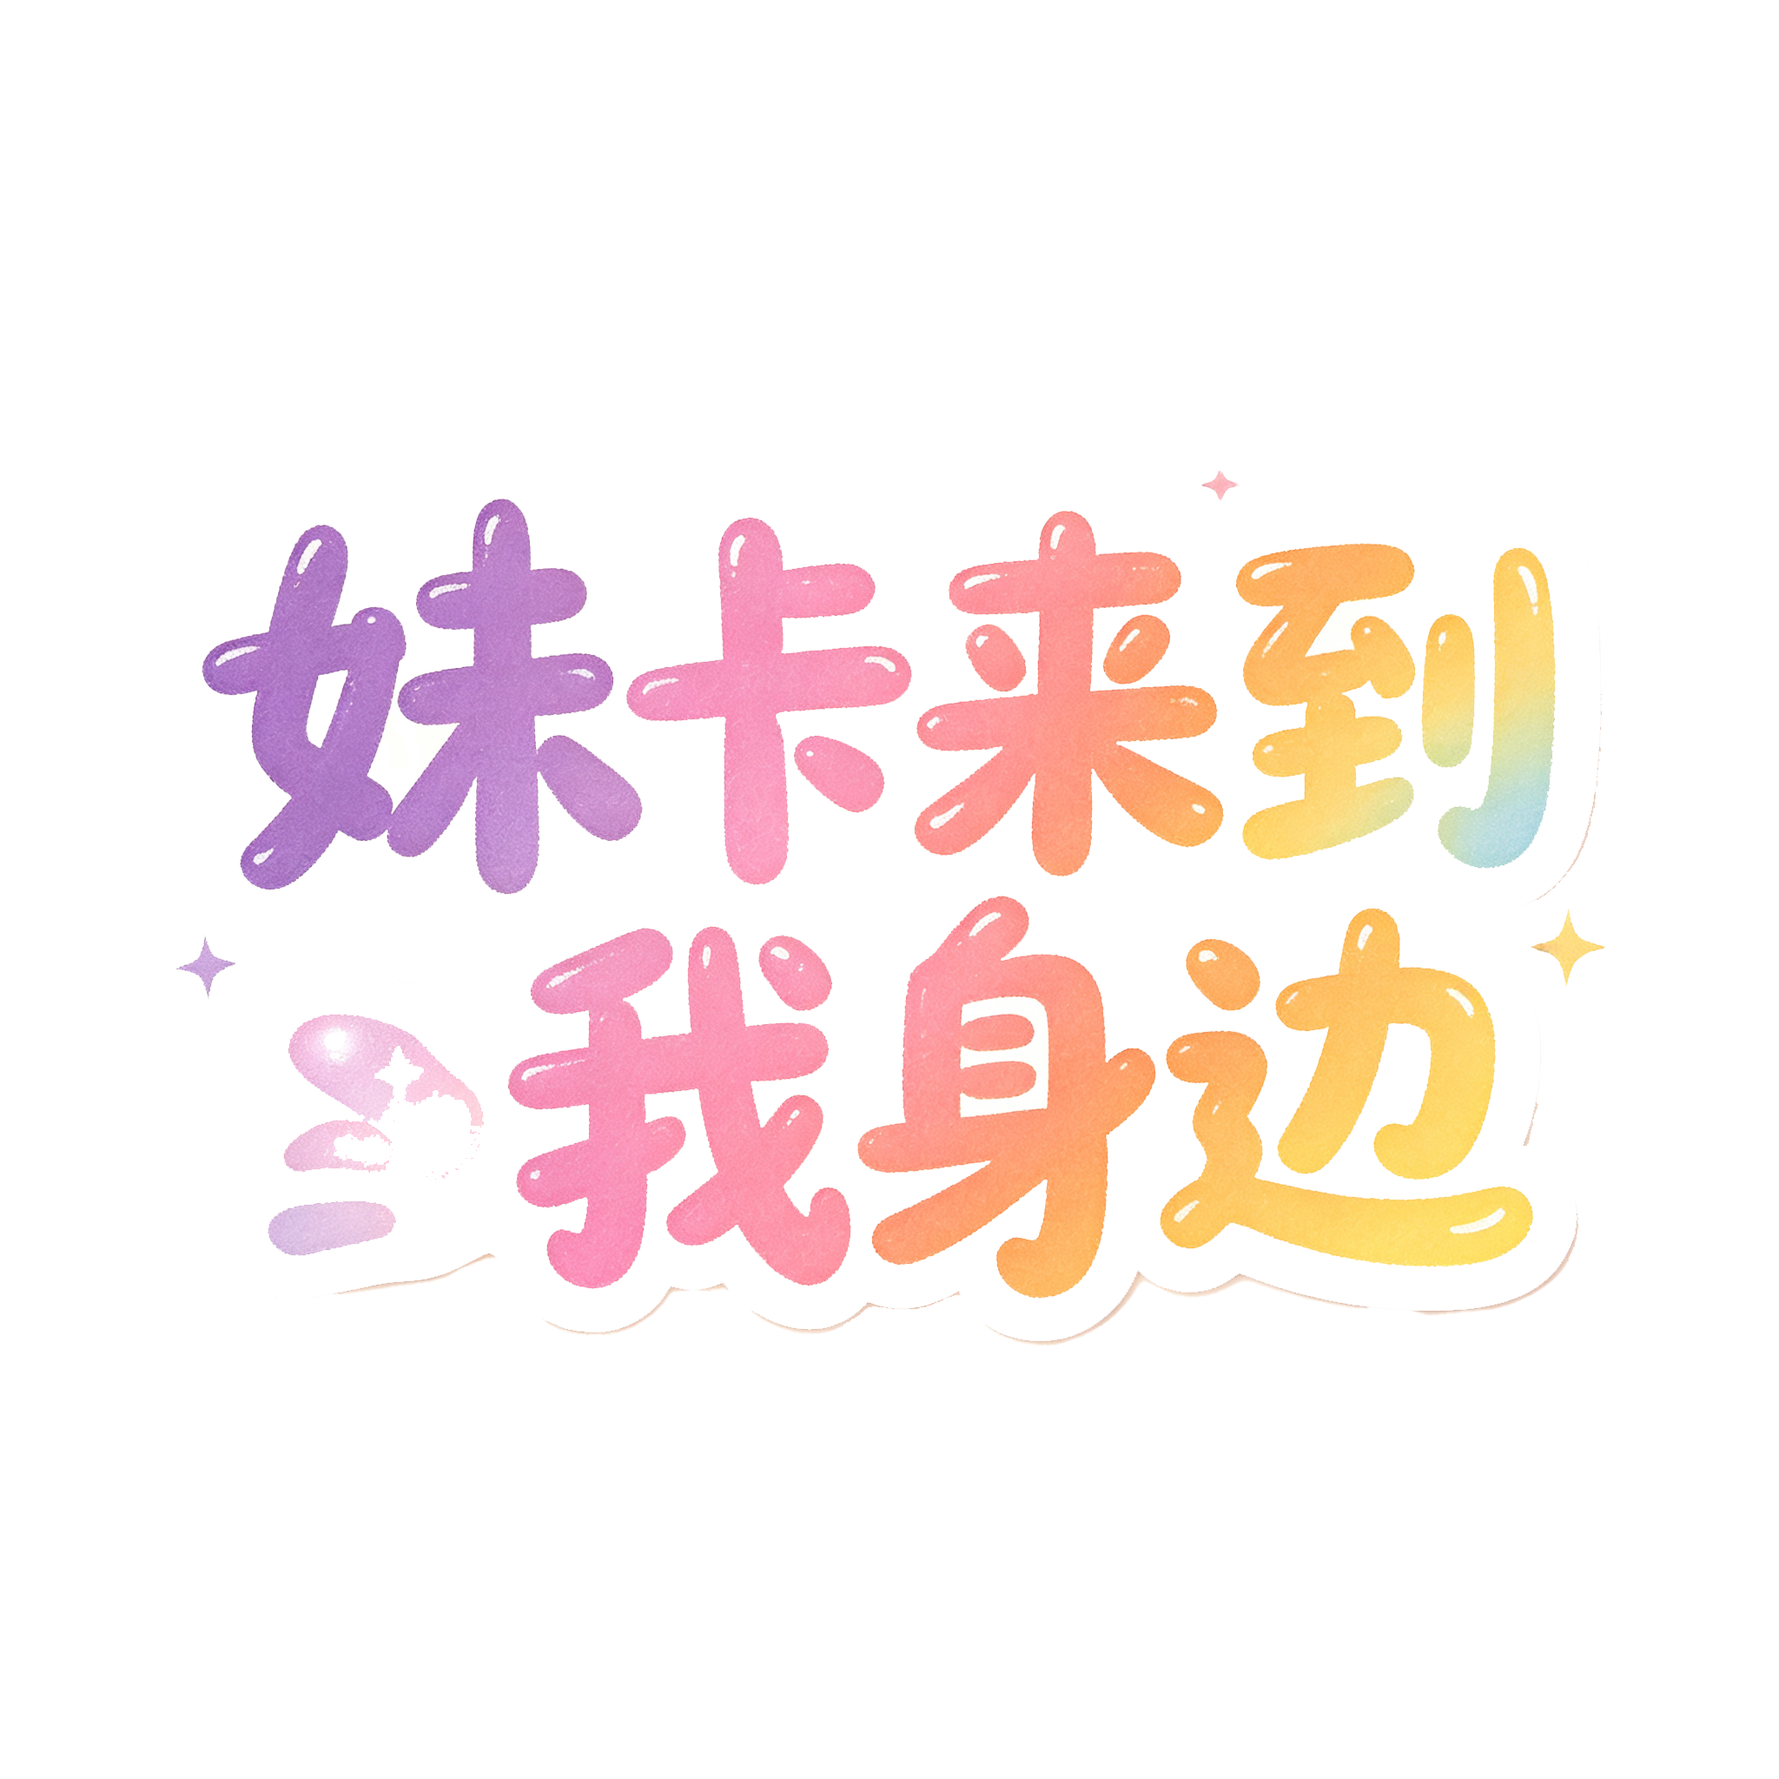
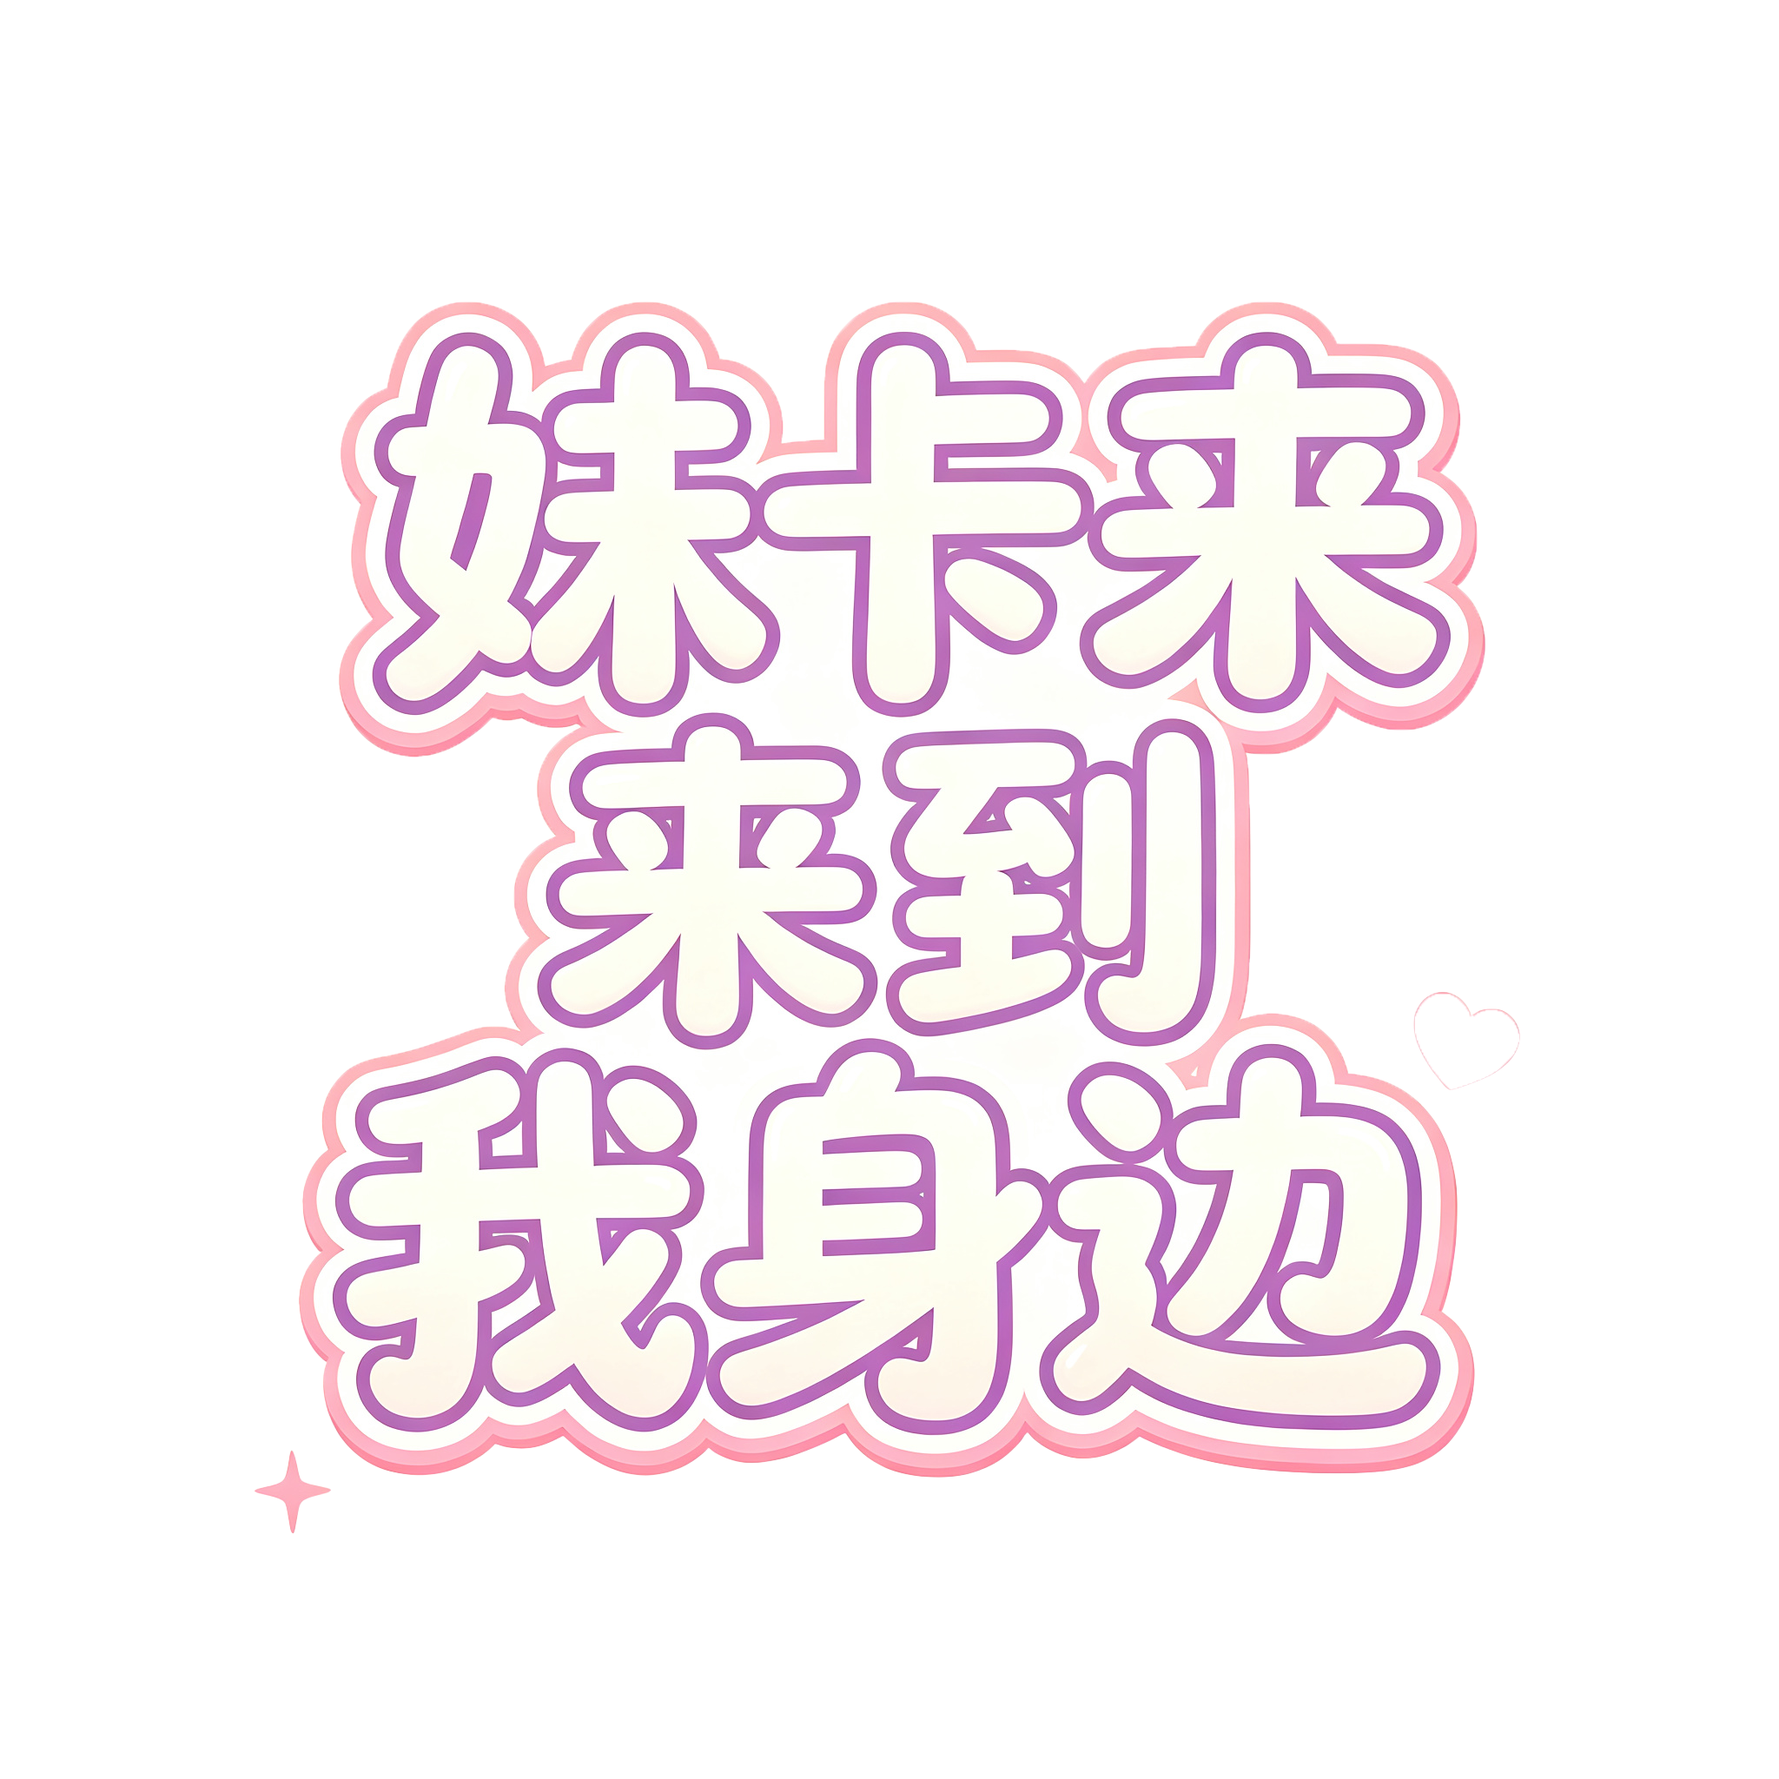
feat: 更新标题图并移至左上角（用户要求）
- assets/covers/标题.png 替换为桌面《场景》文件夹新版本（2048x2048）
- 标题 logo 绝对定位于左上角（top 26px / left 30px，最大 34vw×22vh），
  按钮卡组保持屏幕居中
- logo 图片 URL 加 ?v=14 刷新缓存；模块 v=31 → v=32

Changed region(s): [[0.0938, 0.1562, 0.875, 0.875], [0.875, 0.5, 0.9062, 0.5625], [0.0938, 0.5312, 0.125, 0.5625]]

diff --git a/index.html b/index.html
@@ -8,21 +8,21 @@
   <link rel="preconnect" href="https://fonts.gstatic.com" crossorigin>
   <link href="https://fonts.googleapis.com/css2?family=Cinzel:wght@400;600;700&family=Inter:wght@300;400;500&family=LXGW+WenKai:wght@300;400;700&family=Noto+Sans+SC:wght@300;400;500;700&display=swap" rel="stylesheet">
   <script src="https://unpkg.com/lucide@latest"></script>
-  <link rel="stylesheet" href="css/base.css?v=31">
-  <link rel="stylesheet" href="css/sidebar.css?v=31">
-  <link rel="stylesheet" href="css/splash.css?v=31">
-  <link rel="stylesheet" href="css/title.css?v=31">
-  <link rel="stylesheet" href="css/event.css?v=31">
-  <link rel="stylesheet" href="css/notifications.css?v=31">
-  <link rel="stylesheet" href="css/ai.css?v=31">
-  <link rel="stylesheet" href="css/companions.css?v=31">
-  <link rel="stylesheet" href="css/inventory.css?v=31">
-  <link rel="stylesheet" href="css/scene.css?v=31">
-  <link rel="stylesheet" href="css/closeup.css?v=31">
-  <link rel="stylesheet" href="css/transition.css?v=31">
-  <link rel="stylesheet" href="css/settings.css?v=31">
-  <link rel="stylesheet" href="css/sillytavern.css?v=31">
-  <link rel="stylesheet" href="css/map.css?v=31">
+  <link rel="stylesheet" href="css/base.css?v=32">
+  <link rel="stylesheet" href="css/sidebar.css?v=32">
+  <link rel="stylesheet" href="css/splash.css?v=32">
+  <link rel="stylesheet" href="css/title.css?v=32">
+  <link rel="stylesheet" href="css/event.css?v=32">
+  <link rel="stylesheet" href="css/notifications.css?v=32">
+  <link rel="stylesheet" href="css/ai.css?v=32">
+  <link rel="stylesheet" href="css/companions.css?v=32">
+  <link rel="stylesheet" href="css/inventory.css?v=32">
+  <link rel="stylesheet" href="css/scene.css?v=32">
+  <link rel="stylesheet" href="css/closeup.css?v=32">
+  <link rel="stylesheet" href="css/transition.css?v=32">
+  <link rel="stylesheet" href="css/settings.css?v=32">
+  <link rel="stylesheet" href="css/sillytavern.css?v=32">
+  <link rel="stylesheet" href="css/map.css?v=32">
 </head>
 <body>
   <!-- ==================================================================
@@ -111,6 +111,6 @@
   <!-- SillyTavern 集成：Dexie (IndexedDB 封装) 先行加载，暴露全局 window.Dexie -->
   <script src="lib/dexie.min.js"></script>
   <!-- JS 模块 -->
-  <script type="module" src="js/app.js?v=31"></script>
+  <script type="module" src="js/app.js?v=32"></script>
 </body>
 </html>

diff --git a/js/app.js b/js/app.js
@@ -3,18 +3,18 @@
    设置面板 + 键盘快捷键 + 全模块集成
    ========================================================================== */
 
-import { AppState } from './state.js?v=31';
-import { StorageManager } from './storage.js?v=31';
-import { Navigation } from './navigation.js?v=31';
-import { Particles } from './particles.js?v=31';
-import { TitleScreen } from './title.js?v=31';
-import { EventPanel } from './event.js?v=31';
-import { AiClient, BattleBridge } from './ai.js?v=31';
-import { CompanionsPanel } from './companions.js?v=31';
-import { InventoryPanel } from './inventory.js?v=31';
-import { SceneView } from './scene.js?v=31';
-import { CloseupView } from './closeup.js?v=31';
-import { Notifications } from './notifications.js?v=31';
+import { AppState } from './state.js?v=32';
+import { StorageManager } from './storage.js?v=32';
+import { Navigation } from './navigation.js?v=32';
+import { Particles } from './particles.js?v=32';
+import { TitleScreen } from './title.js?v=32';
+import { EventPanel } from './event.js?v=32';
+import { AiClient, BattleBridge } from './ai.js?v=32';
+import { CompanionsPanel } from './companions.js?v=32';
+import { InventoryPanel } from './inventory.js?v=32';
+import { SceneView } from './scene.js?v=32';
+import { CloseupView } from './closeup.js?v=32';
+import { Notifications } from './notifications.js?v=32';
 
 export const App = {
 
@@ -146,9 +146,9 @@ export const App = {
      ====================================================================== */
   async _initSillytavern() {
     try {
-      var storeMod = await import('./sillytavern/store.js?v=31');
-      var uiMod = await import('./sillytavern/ui/index.js?v=31');
-      var seedMod = await import('./sillytavern/seed.js?v=31');
+      var storeMod = await import('./sillytavern/store.js?v=32');
+      var uiMod = await import('./sillytavern/ui/index.js?v=32');
+      var seedMod = await import('./sillytavern/seed.js?v=32');
       var store = storeMod.sillytavernStore;
       await store.loadAll();
 

diff --git a/js/title.js b/js/title.js
@@ -2,13 +2,13 @@
    光之回响 (Echoes of Light) — TitleScreen 标题界面
    ========================================================================== */
 
-import { AppState } from './state.js?v=31';
-import { StorageManager } from './storage.js?v=31';
-import { Navigation } from './navigation.js?v=31';
-import { showInitialBackground } from './scene.js?v=31';
-import { TransitionView } from './transition.js?v=31';
-import { EventPanel } from './event.js?v=31';
-import { playOpeningGreeting } from './greeting.js?v=31';
+import { AppState } from './state.js?v=32';
+import { StorageManager } from './storage.js?v=32';
+import { Navigation } from './navigation.js?v=32';
+import { showInitialBackground } from './scene.js?v=32';
+import { TransitionView } from './transition.js?v=32';
+import { EventPanel } from './event.js?v=32';
+import { playOpeningGreeting } from './greeting.js?v=32';
 
 /* 开场字幕（新游戏转场）：世界书 first_mes 前 3 句；失败回退内置默认文本前 3 句 */
 const MAX_OPENING_LINES = 3;
@@ -91,7 +91,7 @@ export const TitleScreen = {
 
     this._el.innerHTML =
       '<div class="title-content">' +
-        '<img class="title-logo-img" id="title-logo-text" src="assets/covers/标题.png" alt="当妹卡降临到我身边">' +
+        '<img class="title-logo-img" id="title-logo-text" src="assets/covers/标题.png?v=14" alt="当妹卡降临到我身边">' +
         '<div class="title-btn-container">' +
           (hasSave
             ? '<button class="title-btn card-btn" id="btn-continue" aria-label="继续冒险" title="继续冒险">' +

diff --git a/js/event.js b/js/event.js
@@ -3,13 +3,13 @@
    渲染进近景特写层的对话区（CloseupView.getDialogEl()），对外 API 保持不变
    ========================================================================== */
 
-import { AppState } from './state.js?v=31';
-import { AiClient, BattleBridge } from './ai.js?v=31';
-import { CloseupView } from './closeup.js?v=31';
-import { SceneView } from './scene.js?v=31';
-import { mapEmotion } from './emotion.js?v=31';
-import { CHARACTERS } from './scenes-data.js?v=31';
-import { countPresent } from './schedules.js?v=31';
+import { AppState } from './state.js?v=32';
+import { AiClient, BattleBridge } from './ai.js?v=32';
+import { CloseupView } from './closeup.js?v=32';
+import { SceneView } from './scene.js?v=32';
+import { mapEmotion } from './emotion.js?v=32';
+import { CHARACTERS } from './scenes-data.js?v=32';
+import { countPresent } from './schedules.js?v=32';
 
 /* ==========================================================================
    常量

diff --git a/js/schedules.js b/js/schedules.js
@@ -4,7 +4,7 @@
    时段：morning 6-12 / afternoon 12-18 / evening 18-24 / night 0-6
    ========================================================================== */
 
-import { CHARACTERS } from './scenes-data.js?v=31';
+import { CHARACTERS } from './scenes-data.js?v=32';
 
 /** 行程表数据（data/schedules.json，构建期 fetch 后缓存） */
 export var SCHEDULE_DATA = { periods: [], schedule: {}, cg: {} };
@@ -17,8 +17,8 @@ var _periodStart = {};
    ========================================================================== */
 export async function loadSchedules() {
   try {
-    // ?v=31 版本号：数据 JSON 无 hash，改表后必须 bump 刷新浏览器缓存
-    var resp = await fetch('data/schedules.json?v=31');
+    // ?v=32 版本号：数据 JSON 无 hash，改表后必须 bump 刷新浏览器缓存
+    var resp = await fetch('data/schedules.json?v=32');
     if (resp.ok) {
       var data = await resp.json();
       SCHEDULE_DATA = data;

diff --git a/js/sillytavern/ui/chat.js b/js/sillytavern/ui/chat.js
@@ -3,12 +3,12 @@
  * 左侧会话列表 + 右侧消息区/变量面板/输入栏；头部可打开设置/世界书/预设。
  */
 
-import { sillytavernStore } from '../store.js?v=31';
-import { USER_ROLE } from '../variables.js?v=31';
-import { el, makeOverlay, showToast } from './dom.js?v=31';
-import { openSettingsModal } from './settings-modal.js?v=31';
-import { openLorebookModal } from './lorebook-modal.js?v=31';
-import { openPresetModal } from './preset-modal.js?v=31';
+import { sillytavernStore } from '../store.js?v=32';
+import { USER_ROLE } from '../variables.js?v=32';
+import { el, makeOverlay, showToast } from './dom.js?v=32';
+import { openSettingsModal } from './settings-modal.js?v=32';
+import { openLorebookModal } from './lorebook-modal.js?v=32';
+import { openPresetModal } from './preset-modal.js?v=32';
 
 export function openChatModal() {
   const { panel, close } = makeOverlay(() => { cleanup(); }, { zIndex: 1105, center: true });

diff --git a/js/sillytavern/ui/lorebook-modal.js b/js/sillytavern/ui/lorebook-modal.js
@@ -2,12 +2,12 @@
  * 世界书管理面板（LorebookModal 的 vanilla 移植）
  */
 
-import { sillytavernStore } from '../store.js?v=31';
-import { getDatabase } from '../database.js?v=31';
-import { importMultipleLorebooks, renameLorebook } from '../importer.js?v=31';
-import { createDefaultLorebook } from '../editor-utils.js?v=31';
-import { el, makeOverlay, showToast } from './dom.js?v=31';
-import { openLorebookEditorModal } from './lorebook-editor-modal.js?v=31';
+import { sillytavernStore } from '../store.js?v=32';
+import { getDatabase } from '../database.js?v=32';
+import { importMultipleLorebooks, renameLorebook } from '../importer.js?v=32';
+import { createDefaultLorebook } from '../editor-utils.js?v=32';
+import { el, makeOverlay, showToast } from './dom.js?v=32';
+import { openLorebookEditorModal } from './lorebook-editor-modal.js?v=32';
 
 export function openLorebookModal() {
   const db = getDatabase();

diff --git a/js/sillytavern/ui/preset-modal.js b/js/sillytavern/ui/preset-modal.js
@@ -3,12 +3,12 @@
  * 标签页：采样 / Prompt 文本 / 自定义 Prompts / 排序
  */
 
-import { sillytavernStore } from '../store.js?v=31';
-import { savePreset, deletePreset } from '../database.js?v=31';
-import { createDefaultPreset } from '../types.js?v=31';
-import { clampNumber } from '../editor-utils.js?v=31';
-import { el, makeOverlay, fieldRow } from './dom.js?v=31';
-import { renderPromptOrderEditor } from './prompt-order-editor.js?v=31';
+import { sillytavernStore } from '../store.js?v=32';
+import { savePreset, deletePreset } from '../database.js?v=32';
+import { createDefaultPreset } from '../types.js?v=32';
+import { clampNumber } from '../editor-utils.js?v=32';
+import { el, makeOverlay, fieldRow } from './dom.js?v=32';
+import { renderPromptOrderEditor } from './prompt-order-editor.js?v=32';
 
 const TABS = [
   { id: 'sampling', label: '采样' },

diff --git a/js/sillytavern/ui/settings-modal.js b/js/sillytavern/ui/settings-modal.js
@@ -3,11 +3,11 @@
  * 标签页：主 API / 次 API / 标签 / 格式提示词 / 显示 / 备份
  */
 
-import { sillytavernStore } from '../store.js?v=31';
-import { DEFAULT_FORMAT_PROMPT } from '../types.js?v=31';
-import { fetchModels, testConnection } from '../api-tools.js?v=31';
-import { exportAllData, importAllData, clearAllData } from '../database.js?v=31';
-import { el, makeOverlay, fieldRow, radioGroup, showToast } from './dom.js?v=31';
+import { sillytavernStore } from '../store.js?v=32';
+import { DEFAULT_FORMAT_PROMPT } from '../types.js?v=32';
+import { fetchModels, testConnection } from '../api-tools.js?v=32';
+import { exportAllData, importAllData, clearAllData } from '../database.js?v=32';
+import { el, makeOverlay, fieldRow, radioGroup, showToast } from './dom.js?v=32';
 
 const TABS = [
   { id: 'primary', label: '主 API' },

diff --git a/js/closeup.js b/js/closeup.js
@@ -1,9 +1,9 @@
 // 全屏特写视图（v2 流程）：点击头像 → 立绘居中（standing）→ 对话开始 2 秒后 → CG 3 秒（如有）
 // → 回到立绘继续对话常驻。无 CG 时全程立绘。
 // 降级链：standing.png → neutral.png（emotionFile）→ fullbody.png → 「立绘缺失」占位
-import { AppState } from './state.js?v=31';
-import { CHARACTERS, emotionFile } from './scenes-data.js?v=31';
-import { getCgPath } from './schedules.js?v=31';
+import { AppState } from './state.js?v=32';
+import { CHARACTERS, emotionFile } from './scenes-data.js?v=32';
+import { getCgPath } from './schedules.js?v=32';
 
 // 素材版本号：头像/CG/立绘图片 URL 统一加 v 参数（图片本身无 hash，
 // 重裁/换图后必须 bump 才能刷新用户浏览器缓存；JS 模块走 import 的 v 参数）

diff --git a/js/map.js b/js/map.js
@@ -4,10 +4,10 @@
    进入走统一 travelTo 流程：翻页动画 + 自动对话输入态 + AI 旁白。
    ========================================================================== */
 
-import { SCENES, isSceneOpen, openHoursLabel } from './scenes-data.js?v=31';
-import { SceneView } from './scene.js?v=31';
-import { AppState } from './state.js?v=31';
-import { el, makeOverlay, showToast } from './sillytavern/ui/dom.js?v=31';
+import { SCENES, isSceneOpen, openHoursLabel } from './scenes-data.js?v=32';
+import { SceneView } from './scene.js?v=32';
+import { AppState } from './state.js?v=32';
+import { el, makeOverlay, showToast } from './sillytavern/ui/dom.js?v=32';
 
 /** 打烊提示文案（用户要求） */
 const CLOSED_MSG = '已经到了非营业时间了，明天再来吧';

diff --git a/js/sillytavern/ui/index.js b/js/sillytavern/ui/index.js
@@ -2,9 +2,9 @@
  * SillyTavern UI 入口（vanilla）
  */
 
-export { openChatModal } from './chat.js?v=31';
-export { openSettingsModal } from './settings-modal.js?v=31';
-export { openLorebookModal } from './lorebook-modal.js?v=31';
-export { openLorebookEditorModal } from './lorebook-editor-modal.js?v=31';
-export { openPresetModal } from './preset-modal.js?v=31';
-export { showToast } from './dom.js?v=31';
+export { openChatModal } from './chat.js?v=32';
+export { openSettingsModal } from './settings-modal.js?v=32';
+export { openLorebookModal } from './lorebook-modal.js?v=32';
+export { openLorebookEditorModal } from './lorebook-editor-modal.js?v=32';
+export { openPresetModal } from './preset-modal.js?v=32';
+export { showToast } from './dom.js?v=32';
